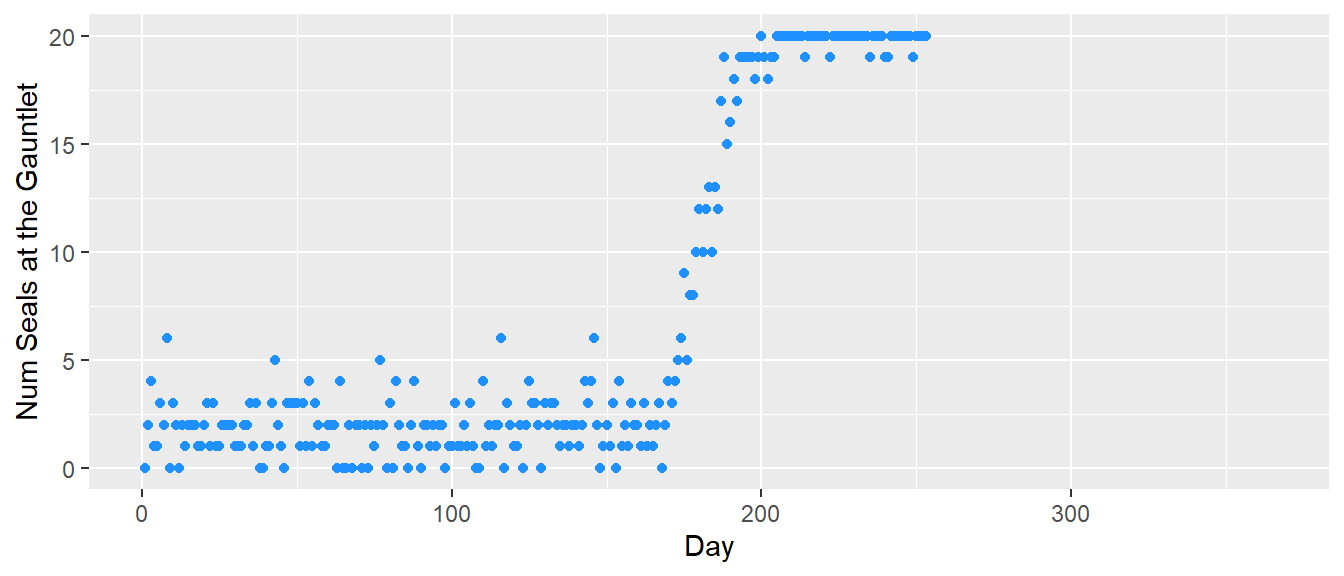
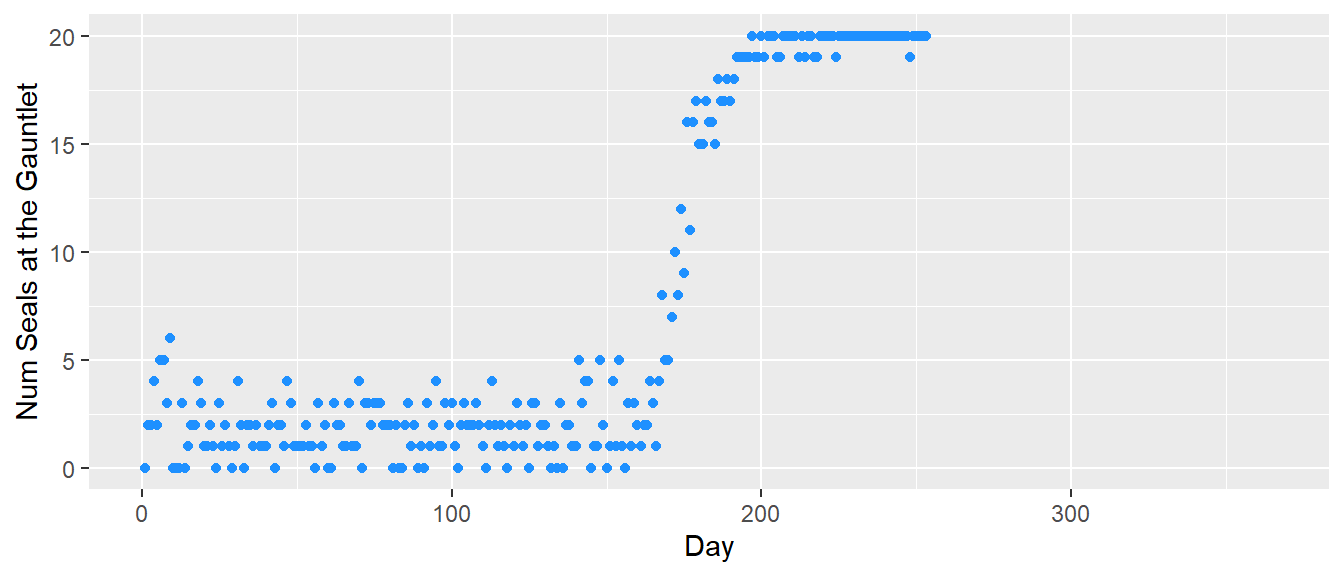
knitted

diff --git a/docs/docs/BaseRunRealm.html b/docs/docs/BaseRunRealm.html
@@ -360,20 +360,6 @@ The following seals were killed during this run:</p>
 </thead>
 <tbody>
 <tr class="odd">
-<td align="right">15</td>
-</tr>
-</tbody>
-</table>
-</td>
-<td>
-<table>
-<thead>
-<tr class="header">
-<th align="right">x</th>
-</tr>
-</thead>
-<tbody>
-<tr class="odd">
 <td align="right">13</td>
 </tr>
 </tbody>
@@ -388,35 +374,7 @@ The following seals were killed during this run:</p>
 </thead>
 <tbody>
 <tr class="odd">
-<td align="right">7</td>
-</tr>
-</tbody>
-</table>
-</td>
-<td>
-<table>
-<thead>
-<tr class="header">
-<th align="right">x</th>
-</tr>
-</thead>
-<tbody>
-<tr class="odd">
-<td align="right">10</td>
-</tr>
-</tbody>
-</table>
-</td>
-<td>
-<table>
-<thead>
-<tr class="header">
-<th align="right">x</th>
-</tr>
-</thead>
-<tbody>
-<tr class="odd">
-<td align="right">4</td>
+<td align="right">20</td>
 </tr>
 </tbody>
 </table>
@@ -444,7 +402,21 @@ The following seals were killed during this run:</p>
 </thead>
 <tbody>
 <tr class="odd">
-<td align="right">3</td>
+<td align="right">14</td>
+</tr>
+</tbody>
+</table>
+</td>
+<td>
+<table>
+<thead>
+<tr class="header">
+<th align="right">x</th>
+</tr>
+</thead>
+<tbody>
+<tr class="odd">
+<td align="right">10</td>
 </tr>
 </tbody>
 </table>
@@ -472,7 +444,7 @@ which is what their final decision is based on.</p>
 <p><img src="BaseRunRealm_files/figure-html/plot8-1.png" width="672" /></p>
 <p>The total escaped Sockeye, Chinook, and Coho are as follows under
 this parameterization:</p>
-<table class="table" style="width: auto !important; margin-left: auto; margin-right: auto;">
+<table class="table" style="color: black; width: auto !important; margin-left: auto; margin-right: auto;">
 <thead>
 <tr>
 <th style="text-align:right;">
@@ -489,13 +461,13 @@ Coho
 <tbody>
 <tr>
 <td style="text-align:right;">
-18412.01
+18397.48
 </td>
 <td style="text-align:right;">
-270.594
+270.5616
 </td>
 <td style="text-align:right;">
-1607.051
+1607.927
 </td>
 </tr>
 </tbody>
@@ -504,7 +476,7 @@ Coho
 <div id="parameter-table" class="section level4">
 <h4>Parameter Table</h4>
 <p>Here’s a quick (not exhaustive) table of parameter values:</p>
-<table class="table" style="width: auto !important; margin-left: auto; margin-right: auto;">
+<table class="table" style="color: black; width: auto !important; margin-left: auto; margin-right: auto;">
 <thead>
 <tr>
 <th style="text-align:left;">

diff --git a/docs/docs/ZoneExclusion.html b/docs/docs/ZoneExclusion.html
@@ -490,7 +490,7 @@ alpha
 </div>
 <div id="things-to-note" class="section level3">
 <h3>Things to Note</h3>
-<p>The total escaped sockeye, chinook, and Coho are as follows under
+<p>The total escaped Sockeye, Chinook, and Coho are as follows under
 this parameterization:</p>
 <table class="table" style="color: black; width: auto !important; margin-left: auto; margin-right: auto;">
 <thead>
@@ -509,10 +509,10 @@ Coho
 <tbody>
 <tr>
 <td style="text-align:right;">
-18560.2
+18559.64
 </td>
 <td style="text-align:right;">
-288.7939
+288.8164
 </td>
 <td style="text-align:right;">
 1634.24

diff --git a/docs/docs/TestMoreSeals.html b/docs/docs/TestMoreSeals.html
@@ -490,13 +490,13 @@ Coho
 <tbody>
 <tr>
 <td style="text-align:right;">
-17514.24
+17501.79
 </td>
 <td style="text-align:right;">
-178.1239
+178.2604
 </td>
 <td style="text-align:right;">
-1513.632
+1513.839
 </td>
 </tr>
 </tbody>

diff --git a/docs/docs/BoatHarvest.html b/docs/docs/BoatHarvest.html
@@ -519,13 +519,13 @@ Coho
 <tbody>
 <tr>
 <td style="text-align:right;">
-18408.52
+18404.91
 </td>
 <td style="text-align:right;">
-271.3109
+271.2568
 </td>
 <td style="text-align:right;">
-1615.3
+1615.709
 </td>
 </tr>
 </tbody>
